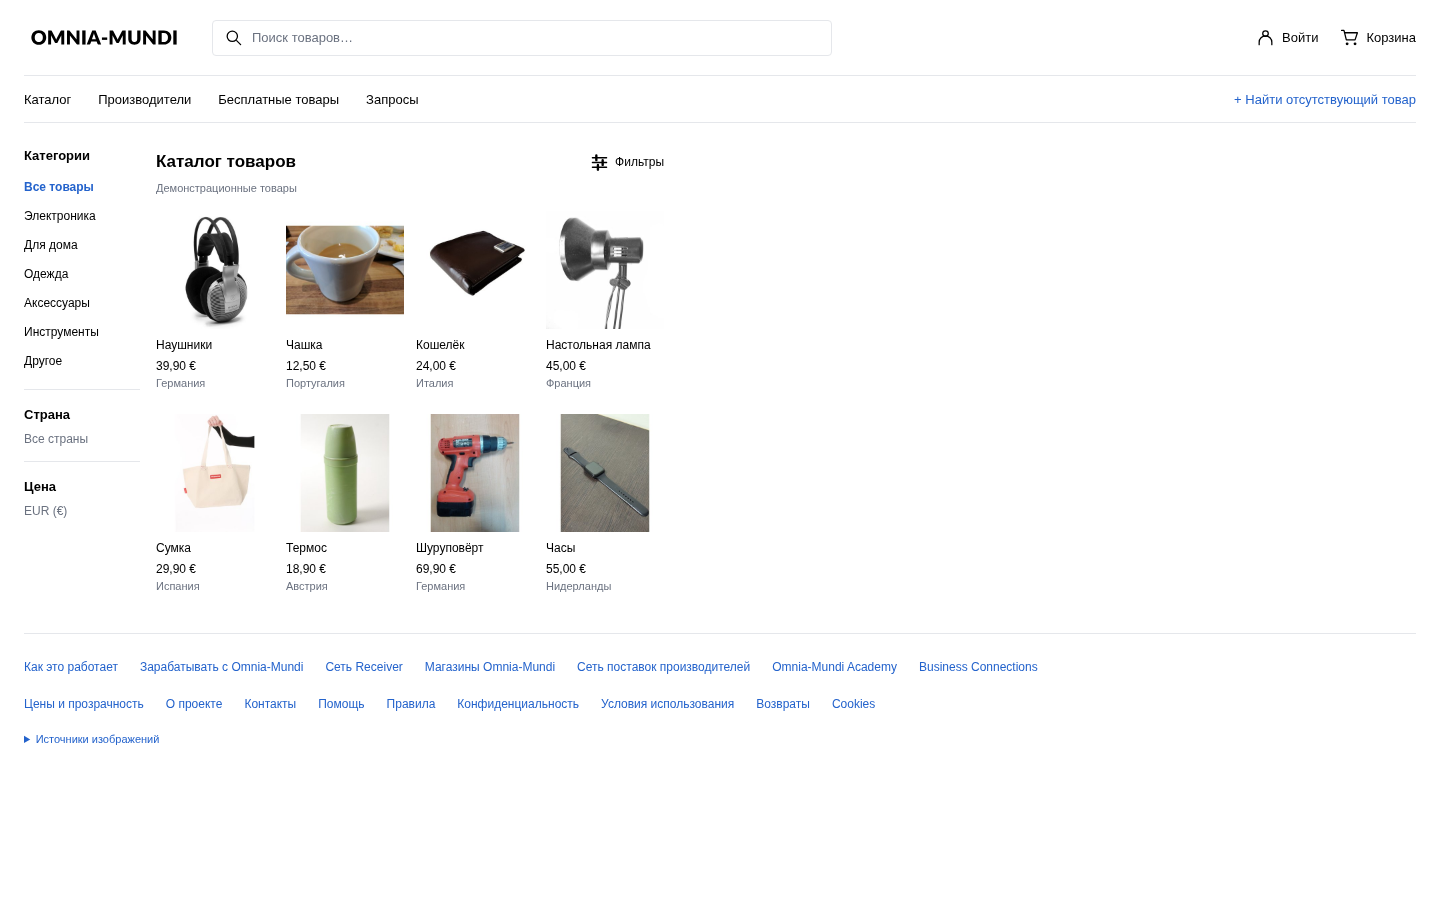
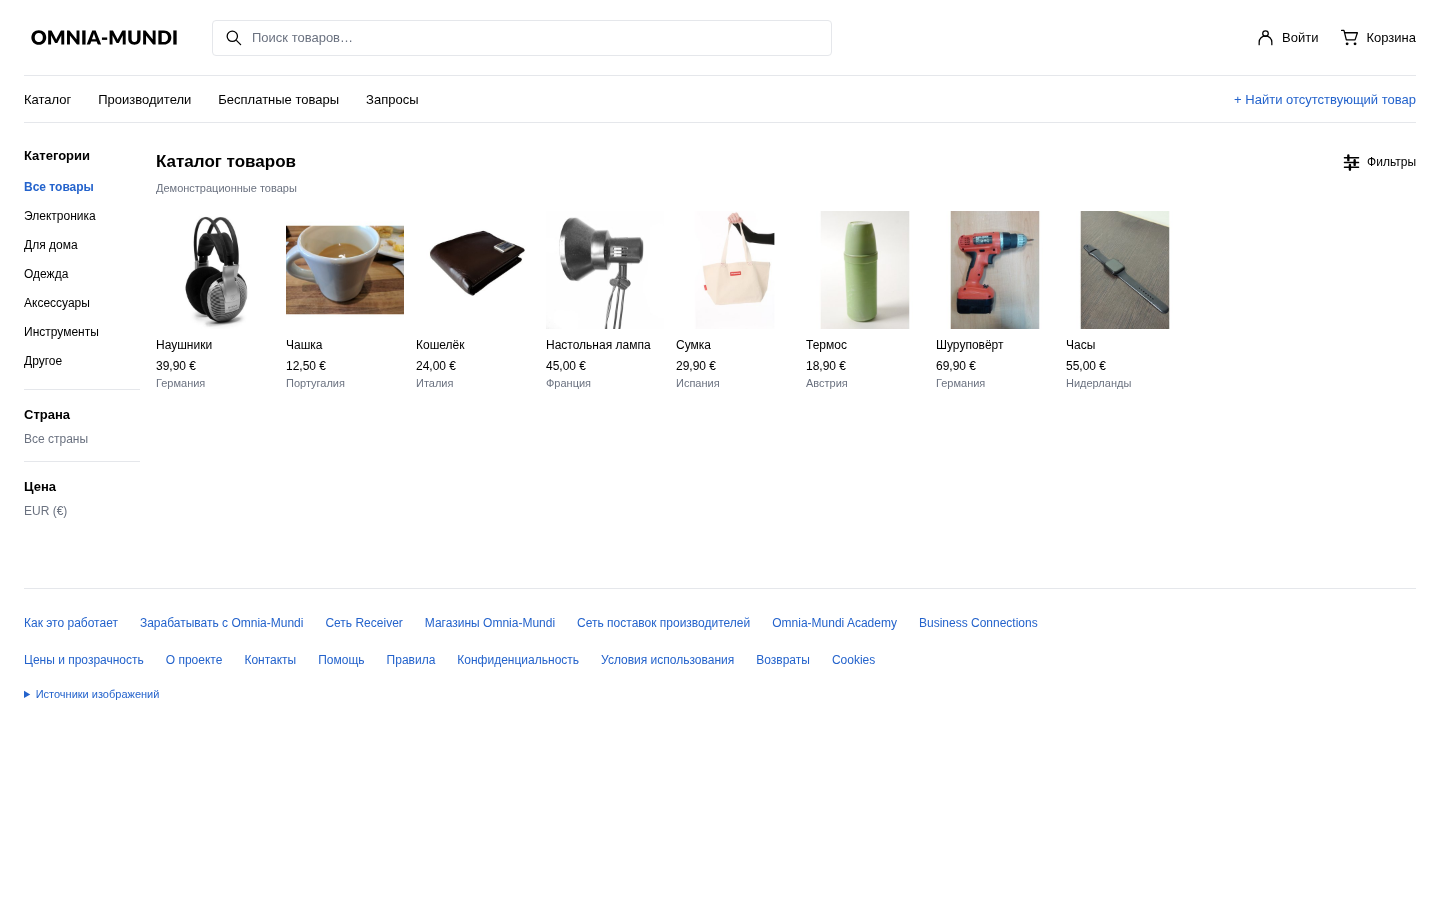
Adapt catalog columns to available width while preserving 118px thumbnails

diff --git a/style.css b/style.css
@@ -1,5 +1,5 @@
 :root{color-scheme:light;font-family:Arial,Helvetica,sans-serif;color:#000;background:#fff;font-size:13px}
-*{box-sizing:border-box}body{margin:0}button,input{font:inherit}button{cursor:pointer}button,a,input{ -webkit-tap-highlight-color:transparent}button{border:0;background:none;color:inherit;padding:0}a{color:#2463cc;text-decoration:none}a:hover,button:hover{text-decoration:underline}:focus-visible{outline:2px solid #2463cc;outline-offset:4px}svg{width:19px;height:19px;fill:none;stroke:currentColor;stroke-width:1.6;stroke-linecap:round;stroke-linejoin:round;flex-shrink:0}.page{padding:0 24px;max-width:1488px;margin:auto}.header{min-height:76px;display:flex;align-items:center;gap:28px;border-bottom:1px solid #e5e7eb}.logo-link{flex-shrink:0;display:flex}.logo-link img{width:160px;height:auto;display:block}.search{display:flex;align-items:center;gap:9px;border:1px solid #e5e7eb;border-radius:4px;min-height:36px;flex:1;max-width:620px;padding:0 11px;margin:0}.search input{width:100%;min-width:0;border:0;background:#fff;padding:9px 0;color:#000}.search input::placeholder{color:#6b7280;opacity:1}.account-actions{display:flex;gap:22px;margin-left:auto}.account-actions button{display:flex;align-items:center;gap:7px;min-height:36px;white-space:nowrap}.primary-nav{min-height:47px;display:flex;align-items:center;gap:27px;border-bottom:1px solid #e5e7eb;flex-wrap:wrap;padding:7px 0}.primary-nav a,.primary-nav button{color:#000;min-height:30px;display:flex;align-items:center;text-align:left}.primary-nav .request-link{margin-left:auto;color:#2463cc}.layout{display:grid;grid-template-columns:116px minmax(0,1fr);gap:16px;padding:25px 0 38px;min-height:436px;align-items:start}.filters section{border-bottom:1px solid #e5e7eb;padding:0 0 15px;margin-bottom:17px}.filters section:last-child{border:0}.filters h2{font-size:13px;font-weight:600;margin:0 0 10px}.filters p{font-size:12px;margin:0;color:#6b7280}#categories{display:grid;gap:2px}#categories button{display:block;width:100%;text-align:left;min-height:27px;font-size:12px}#categories [aria-pressed=true]{color:#2463cc;font-weight:600}.catalog{width:508px;max-width:100%;min-width:0}.catalog-heading{display:flex;align-items:center;justify-content:space-between;gap:12px}.catalog-heading h1{font-size:17px;font-weight:600;margin:0}.catalog-heading button{display:flex;align-items:center;gap:6px;font-size:12px;min-height:28px}.demo-label{color:#6b7280;font-size:11px;margin:6px 0 17px}.products{display:grid;grid-template-columns:repeat(4,118px);column-gap:12px;row-gap:23px}.products article{width:118px;min-width:0}.products img{width:118px;height:118px;aspect-ratio:1 / 1;object-fit:contain;display:block}.products h2{font-size:12px;font-weight:400;line-height:1.4;margin:8px 0 3px;overflow-wrap:anywhere}.products p{margin:0;line-height:1.5}.price{font-size:12px}.country{font-size:11px;color:#6b7280}.slider{stroke-width:3;paint-order:stroke;stroke:#000}.result-status{position:absolute;width:1px;height:1px;padding:0;margin:-1px;overflow:hidden;clip-path:inset(50%);white-space:nowrap}#empty{font-size:13px;line-height:1.5;max-width:360px}footer{border-top:1px solid #e5e7eb;padding:21px 0 28px}footer nav{display:flex;gap:12px 22px;flex-wrap:wrap;max-width:1060px}footer button{font-size:12px;color:#2463cc;text-align:left;min-height:25px}.skip-link{position:absolute;top:-60px;background:#fff;padding:12px;z-index:5}.skip-link:focus{top:0}dialog{border:1px solid #e5e7eb;border-radius:5px;padding:24px;max-width:calc(100% - 32px);font-size:14px}dialog::backdrop{background:#0004}dialog p{margin:0 0 18px}dialog button{color:#2463cc;min-height:32px} [hidden]{display:none!important}
+*{box-sizing:border-box}body{margin:0}button,input{font:inherit}button{cursor:pointer}button,a,input{ -webkit-tap-highlight-color:transparent}button{border:0;background:none;color:inherit;padding:0}a{color:#2463cc;text-decoration:none}a:hover,button:hover{text-decoration:underline}:focus-visible{outline:2px solid #2463cc;outline-offset:4px}svg{width:19px;height:19px;fill:none;stroke:currentColor;stroke-width:1.6;stroke-linecap:round;stroke-linejoin:round;flex-shrink:0}.page{padding:0 24px;max-width:1488px;margin:auto}.header{min-height:76px;display:flex;align-items:center;gap:28px;border-bottom:1px solid #e5e7eb}.logo-link{flex-shrink:0;display:flex}.logo-link img{width:160px;height:auto;display:block}.search{display:flex;align-items:center;gap:9px;border:1px solid #e5e7eb;border-radius:4px;min-height:36px;flex:1;max-width:620px;padding:0 11px;margin:0}.search input{width:100%;min-width:0;border:0;background:#fff;padding:9px 0;color:#000}.search input::placeholder{color:#6b7280;opacity:1}.account-actions{display:flex;gap:22px;margin-left:auto}.account-actions button{display:flex;align-items:center;gap:7px;min-height:36px;white-space:nowrap}.primary-nav{min-height:47px;display:flex;align-items:center;gap:27px;border-bottom:1px solid #e5e7eb;flex-wrap:wrap;padding:7px 0}.primary-nav a,.primary-nav button{color:#000;min-height:30px;display:flex;align-items:center;text-align:left}.primary-nav .request-link{margin-left:auto;color:#2463cc}.layout{display:grid;grid-template-columns:116px minmax(0,1fr);gap:16px;padding:25px 0 38px;min-height:436px;align-items:start}.filters section{border-bottom:1px solid #e5e7eb;padding:0 0 15px;margin-bottom:17px}.filters section:last-child{border:0}.filters h2{font-size:13px;font-weight:600;margin:0 0 10px}.filters p{font-size:12px;margin:0;color:#6b7280}#categories{display:grid;gap:2px}#categories button{display:block;width:100%;text-align:left;min-height:27px;font-size:12px}#categories [aria-pressed=true]{color:#2463cc;font-weight:600}.catalog{width:100%;max-width:100%;min-width:0}.catalog-heading{display:flex;align-items:center;justify-content:space-between;gap:12px}.catalog-heading h1{font-size:17px;font-weight:600;margin:0}.catalog-heading button{display:flex;align-items:center;gap:6px;font-size:12px;min-height:28px}.demo-label{color:#6b7280;font-size:11px;margin:6px 0 17px}.products{display:grid;grid-template-columns:repeat(auto-fill,118px);column-gap:12px;row-gap:23px}.products article{width:118px;min-width:0}.products img{width:118px;height:118px;aspect-ratio:1 / 1;object-fit:contain;display:block}.products h2{font-size:12px;font-weight:400;line-height:1.4;margin:8px 0 3px;overflow-wrap:anywhere}.products p{margin:0;line-height:1.5}.price{font-size:12px}.country{font-size:11px;color:#6b7280}.slider{stroke-width:3;paint-order:stroke;stroke:#000}.result-status{position:absolute;width:1px;height:1px;padding:0;margin:-1px;overflow:hidden;clip-path:inset(50%);white-space:nowrap}#empty{font-size:13px;line-height:1.5;max-width:360px}footer{border-top:1px solid #e5e7eb;padding:21px 0 28px}footer nav{display:flex;gap:12px 22px;flex-wrap:wrap;max-width:1060px}footer button{font-size:12px;color:#2463cc;text-align:left;min-height:25px}.skip-link{position:absolute;top:-60px;background:#fff;padding:12px;z-index:5}.skip-link:focus{top:0}dialog{border:1px solid #e5e7eb;border-radius:5px;padding:24px;max-width:calc(100% - 32px);font-size:14px}dialog::backdrop{background:#0004}dialog p{margin:0 0 18px}dialog button{color:#2463cc;min-height:32px} [hidden]{display:none!important}
 @media(max-width:767px){.page{padding:0 16px}.header{gap:16px;flex-wrap:wrap;padding:14px 0}.account-actions{gap:14px}.search{order:3;flex-basis:100%;max-width:none}.primary-nav{gap:4px 20px;padding:8px 0}.primary-nav .request-link{margin-left:0;flex-basis:100%}.layout{padding-top:19px}}
 @media(max-width:639px){.page{padding:0 16px}.layout{display:flex;flex-direction:column;gap:16px;min-height:0;padding-bottom:30px}.catalog{width:100%}.catalog-heading{max-width:100%}.products{grid-template-columns:repeat(2,118px);column-gap:12px;row-gap:22px}.filters{width:100%;order:0;border-bottom:1px solid #e5e7eb;padding-bottom:8px}.catalog{order:1}#categories{grid-template-columns:repeat(2,minmax(0,1fr));gap:2px 12px}.filters section{margin-bottom:12px;padding-bottom:10px}.catalog-heading h1{font-size:16px}.logo-link img{width:150px}.account-actions button{font-size:12px;gap:4px}.account-actions{gap:12px}.header{gap:10px}.demo-label{margin-bottom:15px}footer nav{gap:5px 18px}footer{padding-top:16px}}
 .image-sources{margin-top:16px;font-size:11px;color:#6b7280;max-width:1060px}.image-sources summary{cursor:pointer;color:#2463cc;min-height:25px;display:list-item;width:fit-content}.image-sources p{line-height:1.6}.image-sources ul{padding-left:18px;line-height:1.65}.image-sources li{margin:8px 0;overflow-wrap:anywhere}

diff --git a/tests/homepage.py b/tests/homepage.py
@@ -1,5 +1,6 @@
 """Real Chromium checks. Run against a local static server; never deploys."""
 import argparse
+import math
 from pathlib import Path
 import hashlib
 import json
@@ -17,21 +18,34 @@ with sync_playwright() as p:
     page.on('pageerror', lambda error: errors.append(str(error)))
     page.on('request', lambda request: external_requests.append(request.url) if not request.url.startswith(args.url.rstrip('/') + '/') else None)
     page.goto(args.url)
-    for width in [320, 375, 390, 768, 1024, 1440]:
+    for width in [320, 375, 390, 768, 1024, 1440, 1920]:
         page.set_viewport_size({'width': width, 'height': 900})
         page.wait_for_timeout(50)
         assert page.evaluate('document.documentElement.scrollWidth <= innerWidth'), width
         positions = page.locator('.products img').evaluate_all('(imgs)=>imgs.map(i=>({w:i.getBoundingClientRect().width,h:i.getBoundingClientRect().height,x:i.getBoundingClientRect().x,y:i.getBoundingClientRect().y}))')
         assert len(positions) == 8
         assert all(i['w'] == 118 and i['h'] == 118 for i in positions)
-        assert len({i['x'] for i in positions}) == (2 if width < 640 else 4)
-        assert len({i['y'] for i in positions}) == (4 if width < 640 else 2)
+        available = page.locator('.products').bounding_box()['width']
+        columns = min(8, 2 if width < 640 else math.floor((available + 12) / 130))
+        assert len({i['x'] for i in positions}) == columns, (width, available, columns)
+        assert len({i['y'] for i in positions}) == math.ceil(8 / columns)
+        if width >= 1440:
+            assert columns == 8
+        if width >= 640:
+            assert abs(page.locator('.catalog').bounding_box()['x'] + page.locator('.catalog').bounding_box()['width'] - page.locator('.layout').bounding_box()['x'] - page.locator('.layout').bounding_box()['width']) < 1
         if not args.layout_only:
             assert page.locator('.products img').evaluate_all('(imgs)=>imgs.every(i=>i.complete && i.naturalWidth>0)'), 'Photos must be local and loaded'
-            if width in [390, 1440]:
+            if width in [390, 1440, 1920]:
                 Path('docs/screenshots').mkdir(parents=True, exist_ok=True)
                 page.screenshot(path=f'docs/screenshots/homepage-{width}.png', full_page=True)
-        print(f'PASS layout {width}px')
+        print(f'PASS layout {width}px: {columns} columns')
+    # More products must use more columns when space permits, without a hidden 8-column cap.
+    page.locator('.products').evaluate('(grid)=>{for(let i=0;i<12;i++)grid.append(grid.firstElementChild.cloneNode(true));}')
+    expanded = page.locator('.products img').evaluate_all('(imgs)=>imgs.map(i=>i.getBoundingClientRect().x)')
+    assert len(set(expanded)) == math.floor((page.locator('.products').bounding_box()['width'] + 12) / 130)
+    assert len(set(expanded)) > 8
+    page.locator('.products').evaluate('(grid)=>{while(grid.children.length>8)grid.lastElementChild.remove();}')
+    print('PASS additional demo cards expand beyond eight columns at 1920px')
     page.set_viewport_size({'width': 390, 'height': 900})
     page.get_by_role('button', name='Фильтры', exact=True).click()
     assert page.locator('#filters').is_visible()

diff --git a/docs/validation-2026-10-25.md b/docs/validation-2026-10-25.md
@@ -12,9 +12,9 @@
 
 Запуск: `python3 -m http.server 3010 --bind 127.0.0.1` из корня. После перезапуска сервера `python3 tests/homepage.py` успешно завершён:
 
-- 320, 375, 390, 768, 1024, 1440 CSS px: горизонтального переполнения нет.
+- 320, 375, 390, 768, 1024, 1440, 1920 CSS px: горизонтального переполнения нет.
 - Все восемь изображений загружены локально; реальные bounding box 118×118 px.
-- На телефоне две колонки / четыре ряда, на широком экране четыре колонки / два ряда.
+- На 320/375/390 px — 2 колонки; 768 px — 4; 1024 px — 6; 1440/1920 px — все 8 товаров в одном ряду. Каталог занимает доступную ширину после фильтров; изображения не растягиваются. С 20 временными карточками на 1920 px помещается 10 колонок: скрытого максимума 4 или 8 нет.
 - Локальный поиск, сочетание поиска с категориями, пустая выдача, восстановление полного каталога: прошли.
 - Раскрытие мобильных фильтров, переход к фильтрам на десктопе, переход к каталогу: прошли.
 - Все зарезервированные коммерческие кнопки и нижняя навигация показывают «Раздел находится в разработке»; Escape закрывает диалог и возвращает фокус.
@@ -23,7 +23,7 @@
 - SVG-логотип и оба TXT побайтно совпадают с origin/main.
 - `node --check app.js`, `node --check strings.ru.js`, `git diff --check`: прошли.
 
-Скриншоты созданы тестом и визуально просмотрены: [1440 px](screenshots/homepage-1440.png), [390 px](screenshots/homepage-390.png). Для включённой фотографии кошелька см. [атрибуцию и лицензию](../ASSETS.md).
+Скриншоты созданы тестом и визуально просмотрены: [1440 px](screenshots/homepage-1440.png), [390 px](screenshots/homepage-390.png), [1920 px](screenshots/homepage-1920.png). Для включённой фотографии кошелька см. [атрибуцию и лицензию](../ASSETS.md).
 
 ## Границы проверки
 
@@ -34,3 +34,6 @@
 ## Git
 
 Ветка `feat/homepage-phase-1`, Draft PR #3. Main не менялась; auto-merge, слияние и публикация не выполнялись. Прежний блокер Unsplash устранён заменой источника, а не обходом его ограничений.
+
+
+Обновление сетки выполнено по [новому решению владельца](https://github.com/homoprovincialis/Omnia-Mundi/pull/3#issuecomment-6397937448). В пользовательском коде изменены только ширина `.catalog` и автоматическое число столбцов `.products`; логотип, шапка, меню, фильтры, фотографии, тексты, атрибуция и футер сохранены.

diff --git a/README.md b/README.md
@@ -28,7 +28,7 @@ node --check strings.ru.js
 python3 tests/homepage.py
 ```
 
-Проверяются ширины 320, 375, 390, 768, 1024 и 1440 px, отсутствие горизонтального переполнения, фиксированные фото 118×118, две/четыре колонки, локальный поиск, совместная фильтрация, пустая выдача, мобильная панель, сообщения будущих функций, Escape и возврат фокуса. Полная проверка дополнительно проверяет загрузку фотографий, хеши и доступность атрибуции, отсутствие внешних запросов и ошибок JavaScript, неизменность логотипа/TXT и создаёт `docs/screenshots/homepage-1440.png` и `homepage-390.png`.
+Проверяются ширины 320, 375, 390, 768, 1024, 1440 и 1920 px, отсутствие горизонтального переполнения, фиксированные фото 118×118, две колонки на телефоне и автоматическое число колонок по доступной ширине на больших экранах, локальный поиск, совместная фильтрация, пустая выдача, мобильная панель, сообщения будущих функций, Escape и возврат фокуса. По последнему решению владельца восемь товаров на 1440 px помещаются в один ряд; прежнее требование четырёх колонок отменено (см. docs/decisions/001-homepage-only.md). Полная проверка дополнительно проверяет загрузку фотографий, хеши и доступность атрибуции, отсутствие внешних запросов и ошибок JavaScript, неизменность логотипа/TXT и создаёт `docs/screenshots/homepage-1440.png` и `homepage-390.png` и `homepage-1920.png`.
 
 Поиск и категории работают только с демонстрационными товарами. Страна и цена — визуальные секции по заданию. Остальные кнопки показывают «Раздел находится в разработке». Нет авторизации, корзинной логики, платежей, финансов, внешних запросов страницы или сбора персональных данных. Сборка, переменные среды, миграции, тестовая БД и очистка данных не требуются.
 

diff --git a/docs/decisions/001-homepage-only.md b/docs/decisions/001-homepage-only.md
@@ -4,3 +4,8 @@
 
 
 Владелец одобрил Wikimedia Commons вместо Unsplash в комментариях PR #3. Добавлены локальные миниатюры и компактный раскрываемый блок источников для соблюдения атрибуции. Один сомнительный кандидат наушников заменён другим снимком Commons с явным PD-self; детали в ASSETS.md. Это не расширение функционального этапа.
+
+
+## Автоматическое число колонок — решение владельца от 25.10.2026
+
+[Комментарий PR #3](https://github.com/homoprovincialis/Omnia-Mundi/pull/3#issuecomment-6397937448) отменяет прежние четыре колонки на десктопе. Каталог занимает всю доступную область после фильтров; `repeat(auto-fill,118px)` размещает столько фиксированных колонок, сколько помещается с промежутком 12 px. На телефоне до 639 px остаются две колонки. Фотографии по-прежнему 118×118 px. Максимальное число колонок отдельно не ограничено. Остальной дизайн не меняется. Исходные TXT сохранены без правок; это явно зафиксированное новое решение имеет приоритет для сетки.

diff --git a/docs/screenshots/README.md b/docs/screenshots/README.md
@@ -4,5 +4,8 @@
 
 - `homepage-1440.png` — компьютер.
 - `homepage-390.png` — телефон, полная высота страницы.
+- `homepage-1920.png` — широкий экран.
+
+Обновлены после решения владельца об автоматическом количестве товаров в строке: на 1440/1920 px восемь товаров в одном ряду; на 390 px — две колонки.
 
 Включённая фотография кошелька: **Pixloom, «A men's wallet.jpg»**, [источник](https://commons.wikimedia.org/wiki/File:A_men%27s_wallet.jpg), [CC BY-SA 4.0](https://creativecommons.org/licenses/by-sa/4.0/). В миниатюре: уменьшение, белые поля, JPEG-оптимизация и удаление EXIF; без ретуши. Производная фотография сохраняет CC BY-SA 4.0, в том числе при включении в эти скриншоты. Остальные фотографии и условия перечислены в [ASSETS.md](../../ASSETS.md). Это не заявление о передаче прав на логотип проекта или о поддержке сайта правообладателями.
